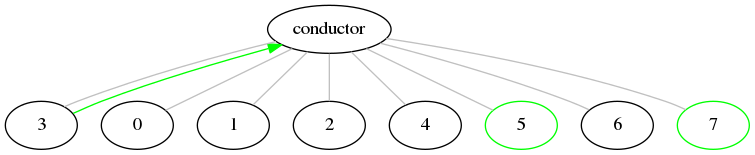
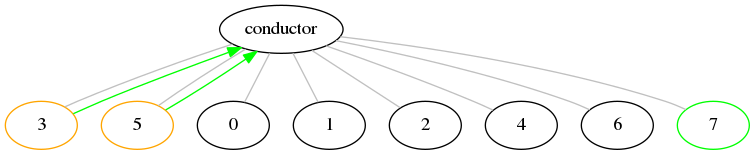
Added the complete workflow as a digraph

diff --git a/content/post/orchestrate-a-digraph-with-goroutine.md b/content/post/orchestrate-a-digraph-with-goroutine.md
@@ -46,24 +46,22 @@ Every goroutine will then check in the adjacency matrix, whether it has predeces
 
 Once the execution of task is over, the goroutine will then feed another channel to tell the conductor that its job is done. and then the conductor will broadcast the information.
 
-
-<table class="table-responsive">
-    <td>(1) The conductor feed the nodes with the matrix</td>
-    <td> <img class="img-responsive" src="/assets/images/digraph_step1.png" alt="digraph example"/> </td>
-</table>
-<table class="tableèresponsive">
-    <td>(2) Every node get the data and analyse the matrix</td>
-    <td> <img class="img-responsive" src="/assets/images/digraph_step2.png" alt="digraph example"/> </td>
-</table>
-<table class="tableèresponsive">
-    <td>(3) Nodes 3, 5 and 7 have no predecessor, they can run</td>
-    <td> <img class="img-responsive" src="/assets/images/digraph_step3.png" alt="digraph example"/> </td>
-</table>
-<table class="table-responsive">
-    <td>(3) Nodes 3 is done, it informs the conductor</td>
-    <td> <img class="img-responsive" src="/assets/images/digraph_step4.png" alt="digraph example"/> </td>
-</table>
-
+* __(1)__ The conductors feed the nodes with the matrix
+<img class="img-responsive" src="/assets/images/digraph_step1.png" alt="digraph example"/> 
+* __(2)__ Every node get the data and analyse the matrix
+<img class="img-responsive" src="/assets/images/digraph_step2.png" alt="digraph example"/> 
+* __(3)__ Nodes 3, 5 and 7 have no predecessor, they can run
+<img class="img-responsive" src="/assets/images/digraph_step3.png" alt="digraph example"/> 
+* __(4)__ Nodes 3 and 5 are done, they informs the conductor
+<img class="img-responsive" src="/assets/images/digraph_step4.png" alt="digraph example"/> 
+* __(5)__ conductor update the matrix
+<img class="img-responsive" src="/assets/images/digraph_step5.png" alt="digraph example"/> 
+* __(6)__ The conductor feeds the nodes with the matrix
+<img class="img-responsive" src="/assets/images/digraph_step6.png" alt="digraph example"/> 
+* __(7)__ The nodes analyse the matrix
+<img class="img-responsive" src="/assets/images/digraph_step7.png" alt="digraph example"/> 
+* __(8)__ Node 2 can run...
+<img class="img-responsive" src="/assets/images/digraph_step8.png" alt="digraph example"/> 
 ## The representation of the use case in go
 
 to keep it simple, I won't use a `list` or a `slice` to represent the matrix, but instead I will rely on the [package mat64](https://godoc.org/github.com/gonum/matrix/mat64).
